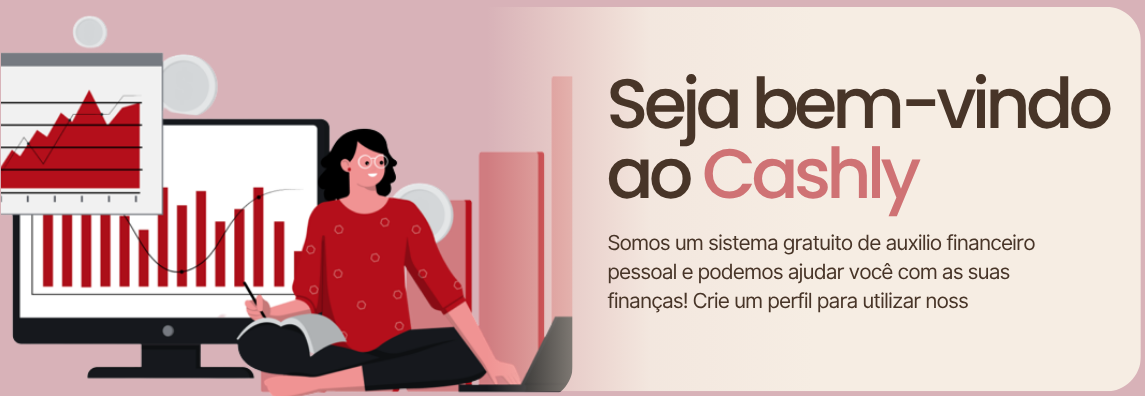
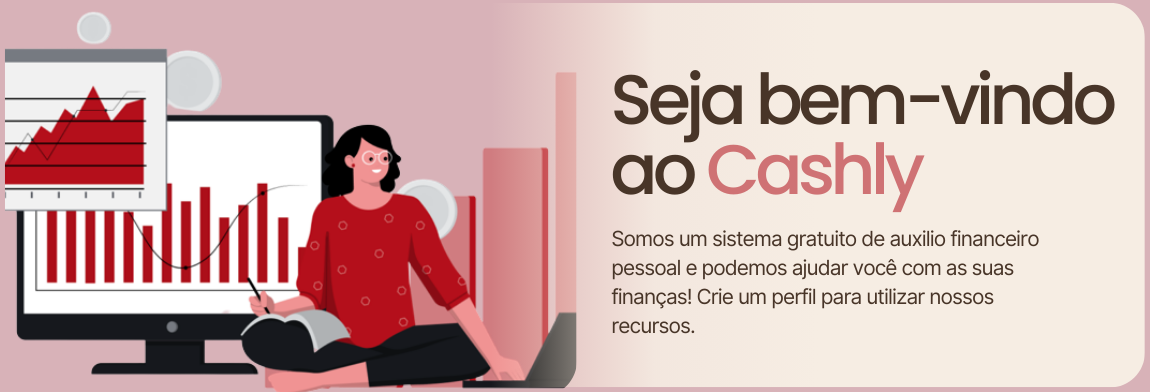
Tela Inicio não finalizada
Ajeitei a imagem central da tela de apresentação e add a tela inicio

diff --git a/TelasCashly/src/telas/TelaInicio.java b/TelasCashly/src/telas/TelaInicio.java
@@ -1,0 +1,157 @@
+package telas;
+
+import java.awt.EventQueue;
+import java.awt.event.ActionEvent;
+import java.awt.event.ActionListener;
+
+import javax.swing.JFrame;
+import javax.swing.JPanel;
+import javax.swing.border.EmptyBorder;
+import java.awt.Color;
+import javax.swing.JButton;
+import javax.swing.ImageIcon;
+import javax.swing.JLabel;
+
+public class TelaInicio extends JFrame {
+
+	private static final long serialVersionUID = 1L;
+	private JPanel contentPane;
+	
+	private void abrirTelaCadastro() {
+	    dispose(); // Fecha a tela atual
+	    new TelaCadastro().setVisible(true); // Abre a tela de cadastro
+	}
+	
+	private void abrirTelaApresentacao() {
+	    dispose(); // Fecha a tela atual
+	    new TelaApresentacao().setVisible(true); // Abre a tela de cadastro
+	}
+
+	/**
+	 * Launch the application.
+	 */
+	public static void main(String[] args) {
+		EventQueue.invokeLater(new Runnable() {
+			public void run() {
+				try {
+					TelaInicio frame = new TelaInicio();
+					frame.setVisible(true);
+				} catch (Exception e) {
+					e.printStackTrace();
+				}
+			}
+		});
+	}
+
+	/**
+	 * Create the frame.
+	 */
+	public TelaInicio() {
+		setBackground(new Color(216, 178, 184));
+		setDefaultCloseOperation(JFrame.EXIT_ON_CLOSE);
+		setBounds(100, 100, 1280, 800);
+		contentPane = new JPanel();
+		contentPane.setBackground(new Color(216, 178, 184));
+		contentPane.setBorder(new EmptyBorder(5, 5, 5, 5));
+
+		setContentPane(contentPane);
+		contentPane.setLayout(null);
+		
+		JLabel lblLogo = new JLabel("");
+		lblLogo.setIcon(new ImageIcon(TelaInicio.class.getResource("/imgs/LogoCashly.png")));
+		lblLogo.setBounds(64, 50, 365, 32);
+		contentPane.add(lblLogo);
+		
+		JButton btnIrCadastro = new JButton("");
+		btnIrCadastro.addActionListener(new ActionListener() {
+			public void actionPerformed(ActionEvent e) {
+				abrirTelaCadastro();
+			}
+		});
+		btnIrCadastro.setIcon(new ImageIcon(TelaInicio.class.getResource("/imgs/btnIrCadastro.png")));
+		btnIrCadastro.setBounds(222, 437, 242, 68);
+		contentPane.add(btnIrCadastro);
+		
+		btnIrCadastro.setBorderPainted(false);
+		btnIrCadastro.setContentAreaFilled(false);
+		btnIrCadastro.setFocusPainted(false);
+		btnIrCadastro.setOpaque(false);
+		
+		JLabel lblAindaNCriouConta = new JLabel("");
+		lblAindaNCriouConta.setIcon(new ImageIcon(TelaInicio.class.getResource("/imgs/AindaNaoCriouConta.png")));
+		lblAindaNCriouConta.setBounds(96, 140, 596, 557);
+		contentPane.add(lblAindaNCriouConta);
+		
+		JButton btnLogin = new JButton("");
+		btnLogin.addActionListener(new ActionListener() {
+			public void actionPerformed(ActionEvent e) {
+			}
+		});
+		btnLogin.setIcon(new ImageIcon(TelaInicio.class.getResource("/imgs/Login2.png")));
+		btnLogin.setBounds(1082, 46, 122, 40);
+		contentPane.add(btnLogin);
+		
+		btnLogin.setBorderPainted(false);
+		btnLogin.setContentAreaFilled(false);
+		btnLogin.setFocusPainted(false);
+		btnLogin.setOpaque(false);
+		
+		JButton btnCadastrar = new JButton("");
+		btnCadastrar.addActionListener(new ActionListener() {
+			public void actionPerformed(ActionEvent e) {
+				abrirTelaCadastro();
+			}
+		});
+		btnCadastrar.setIcon(new ImageIcon(TelaInicio.class.getResource("/imgs/BtnCadastro.png")));
+		btnCadastrar.setBounds(921, 54, 129, 23);
+		contentPane.add(btnCadastrar);
+		
+		btnCadastrar.setBorderPainted(false);
+		btnCadastrar.setContentAreaFilled(false);
+		btnCadastrar.setFocusPainted(false);
+		btnCadastrar.setOpaque(false);
+		
+		JButton btnInicio = new JButton("");
+		btnInicio.addActionListener(new ActionListener() {
+			public void actionPerformed(ActionEvent e) {
+				
+				abrirTelaApresentacao();
+			}
+		});
+		btnInicio.setIcon(new ImageIcon(TelaInicio.class.getResource("/imgs/BtnInicio2.png")));
+		btnInicio.setBounds(784, 54, 89, 23);
+		contentPane.add(btnInicio);
+		
+		btnInicio.setBorderPainted(false);
+		btnInicio.setContentAreaFilled(false);
+		btnInicio.setFocusPainted(false);
+		btnInicio.setOpaque(false);
+		
+		JLabel lblFazerLogin = new JLabel("");
+		lblFazerLogin.setIcon(new ImageIcon(TelaInicio.class.getResource("/imgs/FazerLogin.png")));
+		lblFazerLogin.setBounds(770, 198, 315, 53);
+		contentPane.add(lblFazerLogin);
+		
+		JLabel lblEmail = new JLabel("");
+		lblEmail.setIcon(new ImageIcon(TelaInicio.class.getResource("/imgs/Email.png")));
+		lblEmail.setBounds(733, 275, 408, 68);
+		contentPane.add(lblEmail);
+		
+		JLabel lblSenha = new JLabel("");
+		lblSenha.setIcon(new ImageIcon(TelaInicio.class.getResource("/imgs/Senha.png")));
+		lblSenha.setBounds(733, 368, 408, 68);
+		contentPane.add(lblSenha);
+		
+		JButton btnIniciarSessao = new JButton("");
+		btnIniciarSessao.setIcon(new ImageIcon(TelaInicio.class.getResource("/imgs/btnIniciarSessao.png")));
+		btnIniciarSessao.setBounds(776, 473, 317, 69);
+		contentPane.add(btnIniciarSessao);
+		
+		btnIniciarSessao.setBorderPainted(false);
+		btnIniciarSessao.setContentAreaFilled(false);
+		btnIniciarSessao.setFocusPainted(false);
+		btnIniciarSessao.setOpaque(false);
+		
+		
+	}
+}
